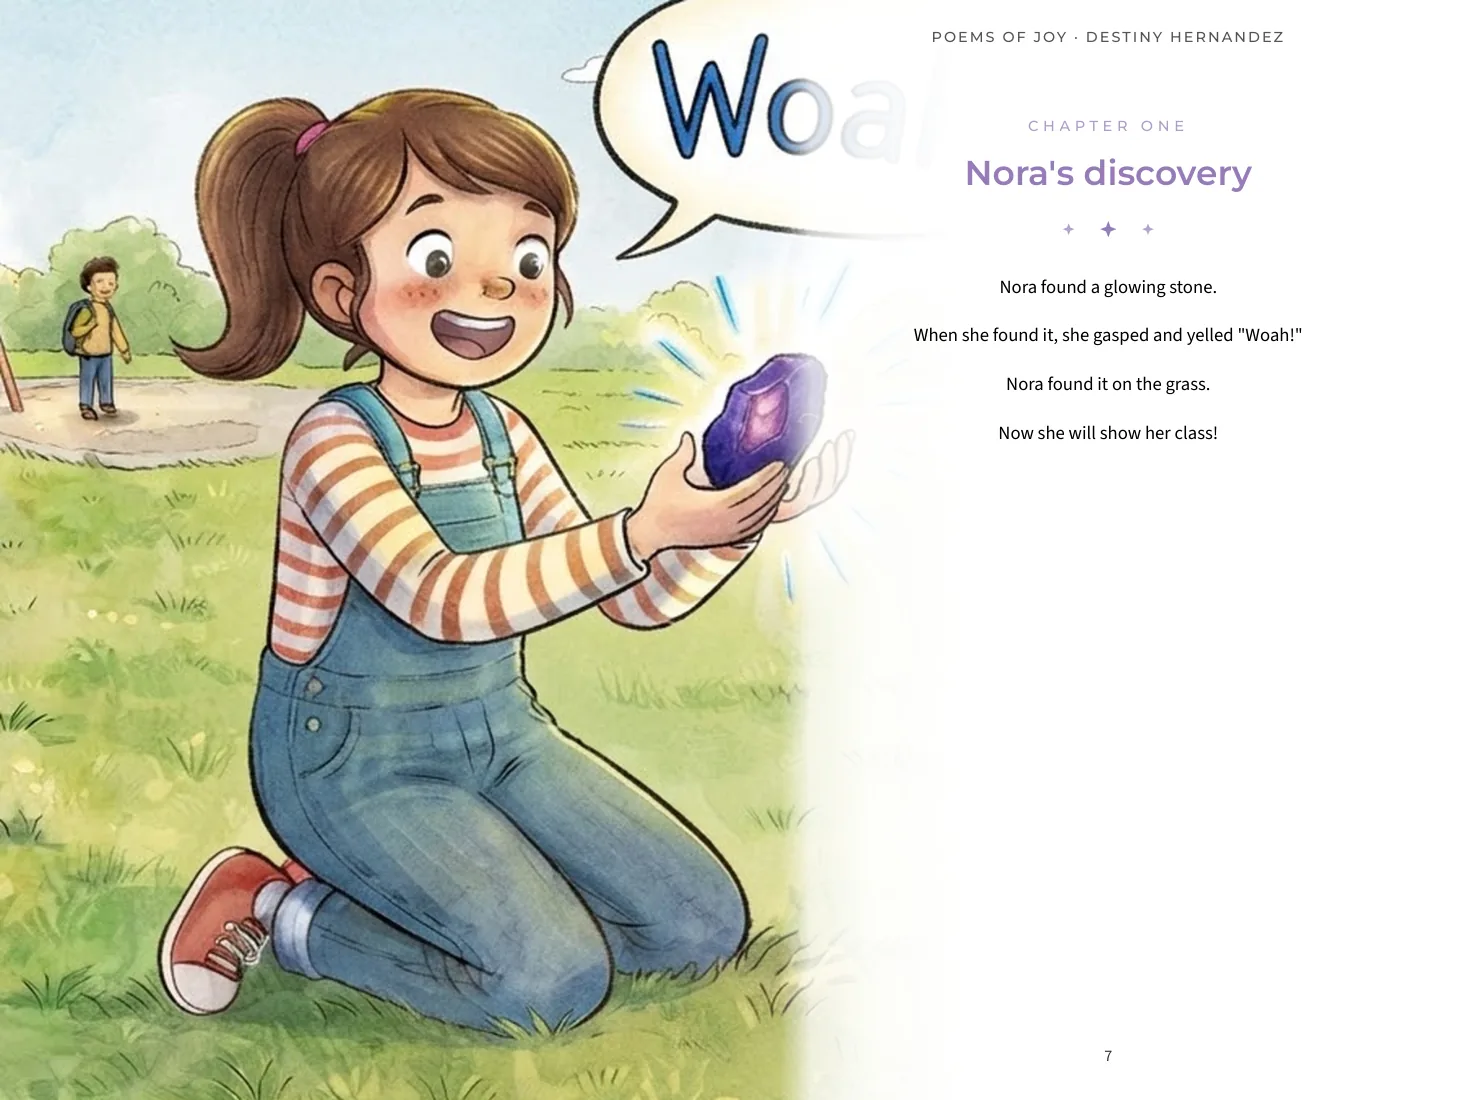
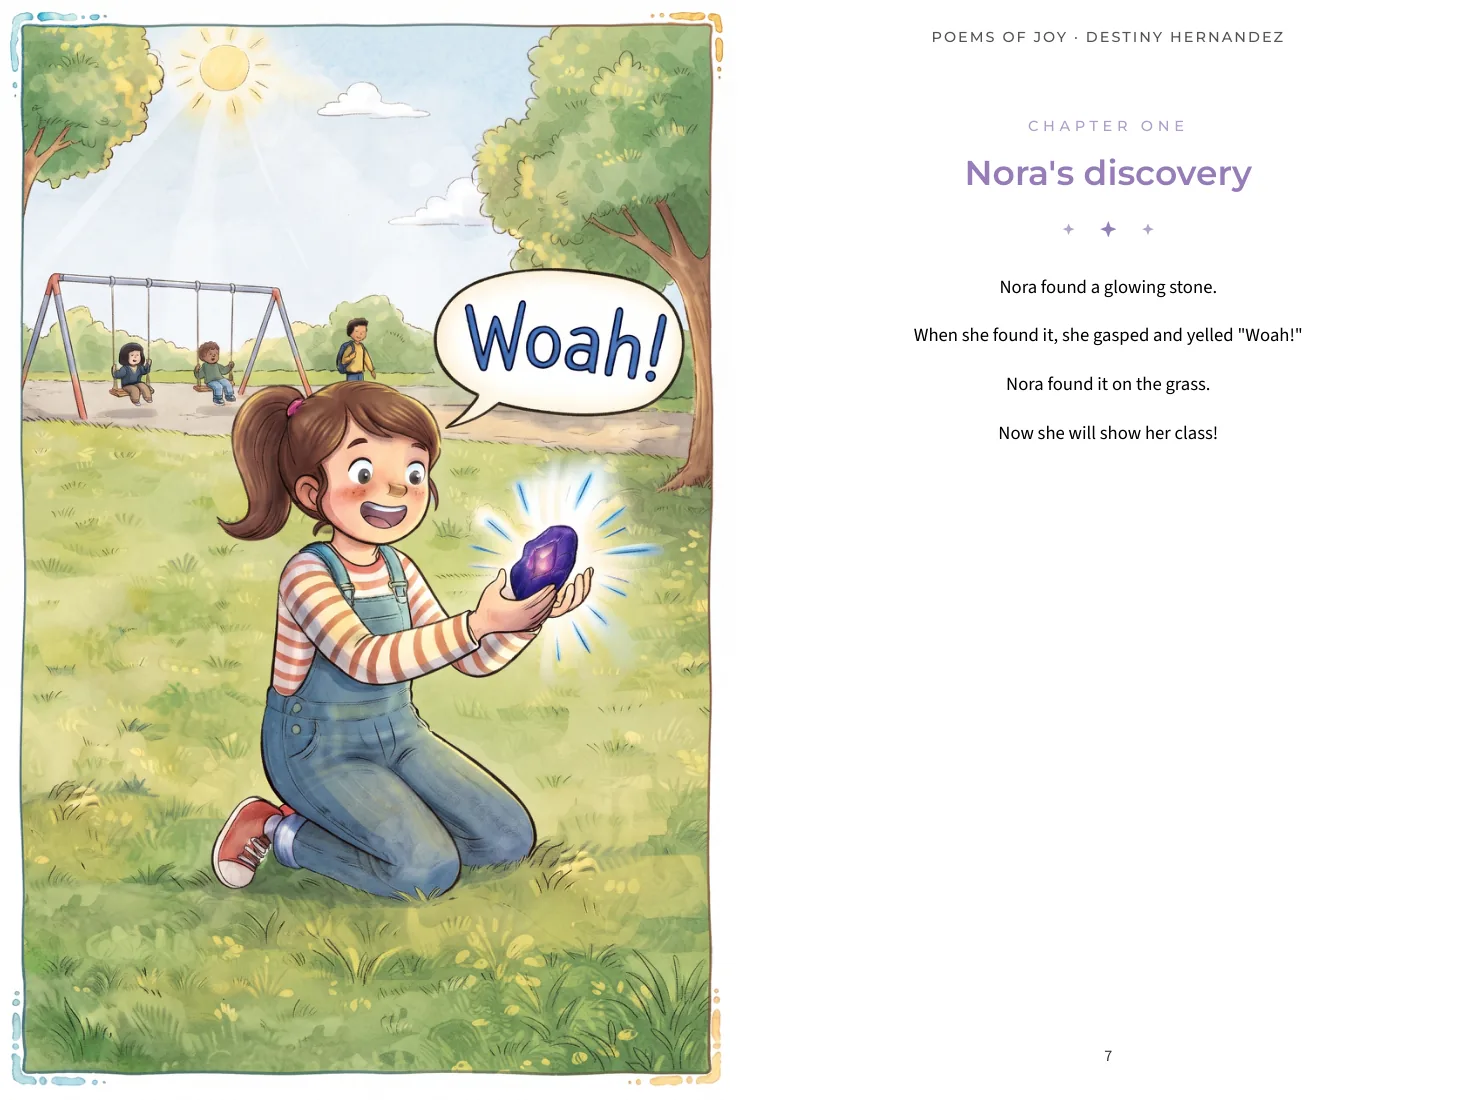
Ramp: Poems of joy with a full-page picture facing each poem
V: "Replaced the ramp images for [the author's] poem, use those please. Let's change
it, I am still not liking the blend. Let's have full 1 page images rather
than the bleeding."

The book file now gives each chapter one whole picture, the author's new
full-page pictures (1696 x 2528, about 280 ppi on the 6 x 9 in page). Each
is set as the chapter's plate exactly as the file is, not split and not
enlarged, with no backdrop on the poem's page. Her words, theme and front
matter are unchanged. The book was printed by Beuk's renderer like the
other Ramp books.

- client/site/ramp/poems-of-joy/spread-2..4.webp: the three chapter spreads
  from the new print (spread-1, the title page, is unchanged)
- client/site/ramp.html: shelf line, captions and alt texts for the new
  pictures
- docs/ENGINEERING.md: her book's paragraph says full-page pictures, with no
  split and no enlarging

Claude-Session: https://claude.ai/code/session_01GatpgiHqoF3PXHks1NV5NV

diff --git a/client/site/ramp.html b/client/site/ramp.html
@@ -158,7 +158,7 @@
           <button class="book" role="listitem" data-book="poems-of-joy" style="--c:#977cb9" aria-label="Open Poems of joy">
             <span class="cover"><img src="/site/ramp/poems-of-joy/spread-2.webp" width="1468" height="1100" alt="" loading="eager" decoding="async" /></span>
             <span class="t">Poems of joy</span>
-            <span class="m"><b>Poems</b> · 6 × 9 in · Montserrat over Source Sans 3, in lavender. Each picture crosses the gutter into its poem.</span>
+            <span class="m"><b>Poems</b> · 6 × 9 in · Montserrat over Source Sans 3, in lavender. A full-page picture faces each poem.</span>
             <span class="open">Open the book →</span>
           </button>
           <button class="book" role="listitem" data-book="rain-on-calder-street" style="--c:#8a5a12" aria-label="Open Rain on Calder Street">
@@ -299,9 +299,9 @@
         var BOOKS = {
           "poems-of-joy": { title: "Poems of joy", c: "#977cb9", w: 1468, h: 1100, spreads: [
             ["The title page stands alone on the right, the way a printed book opens: the title in Montserrat, in the book's lavender, under a trio of stars.", "The title page of Poems of joy by Destiny Hernandez, on a right-hand page with the left page blank"],
-            ["<b>Spread.</b> The left half of her picture fills the page edge to edge; the right half crosses the gutter and fades out before the poem.", "Left: a girl in a striped top and dungarees kneels on the grass in a park and holds up a glowing purple stone; her speech bubble, Woah, fades as it crosses the gutter. Right: Chapter One, Nora's discovery, a poem of four lines"],
-            ["The chapter number spaced in small capitals, the title in Montserrat, each line of the poem centred in Source Sans 3.", "Left: a curly-haired boy in a blue hoodie laughs on a sofa under a speech bubble saying Yay, super glad, his mother beside him fading across the gutter. Right: Chapter 2, Out of town, a poem of four lines"],
-            ["The running head carries the book's title and its author above every poem, and every picture crosses into its page.", "Left: a cross girl sits on a bench with her arms folded under a speech bubble saying Let me out, a window behind her. Right: Chapter 3, In big trouble, a poem of four lines"]
+            ["<b>A full-page picture faces each poem.</b> The whole picture fills the left page; the poem has its page to itself.", "Left: a girl in a striped top and dungarees kneels on the grass in a sunny park and holds up a glowing purple stone, a speech bubble saying Woah beside her, children on the swings behind. Right: Chapter One, Nora's discovery, a poem of four lines"],
+            ["The chapter number spaced in small capitals, the title in Montserrat, each line of the poem centred in Source Sans 3.", "Left: a curly-haired boy in a blue hoodie on a sofa, a speech bubble saying Yay, super glad, as his mother points to the packed suitcases and says We're going out of town, a beagle at their feet. Right: Chapter 2, Out of town, a poem of four lines"],
+            ["The running head carries the book's title and its author above every poem; each picture was made for its page.", "Left: a cross girl on a time-out bench with her arms folded, a speech bubble saying I don't care, let me go, while the principal watches from her desk under a Principal's Office sign and a list of rules. Right: Chapter 3, In big trouble, a poem of four lines"]
           ]},
           "rain-on-calder-street": { title: "Rain on Calder Street", c: "#8a5a12", w: 2208, h: 1104, spreads: [
             ["The title page, set from the book's own details: title, subtitle and author. A printed book opens on a right-hand page.", "The title page of Rain on Calder Street, a novel by J. R. Vance, on a right-hand page with the left page blank"],

diff --git a/docs/ENGINEERING.md b/docs/ENGINEERING.md
@@ -4723,13 +4723,13 @@ author's own book. Destiny Hernandez wrote the poems and made the pictures
 with Gemini. It arrived as Beuk's PDF/X print, password-locked; its words
 were set from that print, unchanged, into a Beuk book file
 (`ramp-poems-of-joy.beuk-backup.json`: her theme and colour, each chapter a
-poem), and the book was printed by the renderer like the others. Its
-pictures take Rain on Calder Street's treatment: each is cropped inside its
-painted frame to the two-page shape, enlarged to 300 ppi at the trim (about
-4×) and split down the middle, the left half the chapter's plate and the
-right half its Spread backdrop. It opens on its title page alone on the
-right; its shelf cover is the first chapter's spread. Its pictures have
-rows in `pictures.tsv`. Then *Rain on Calder Street*
+poem), and the book was printed by the renderer like the others. Each
+chapter's picture is a full page: one whole picture made for the page (1696 ×
+2528, about 280 ppi over the 9 in page), set as the chapter's plate as the
+file is, not split and not enlarged, facing the poem; the poem's page has no
+backdrop. It opens on its title page alone on the right; its shelf cover is
+the first chapter's spread. Its pictures have rows in `pictures.tsv`. Then
+*Rain on Calder Street*
 (noir, 8 × 8 in), *Four Kitchens*
 (cookbook, 8.5 × 8.5 in), *The Sunken Vault* (fantasy, 6 × 9 in), *Luna's
 Beach Treasure Hunt* and *The Woolly School* (picture books, 11 × 8.5 in
